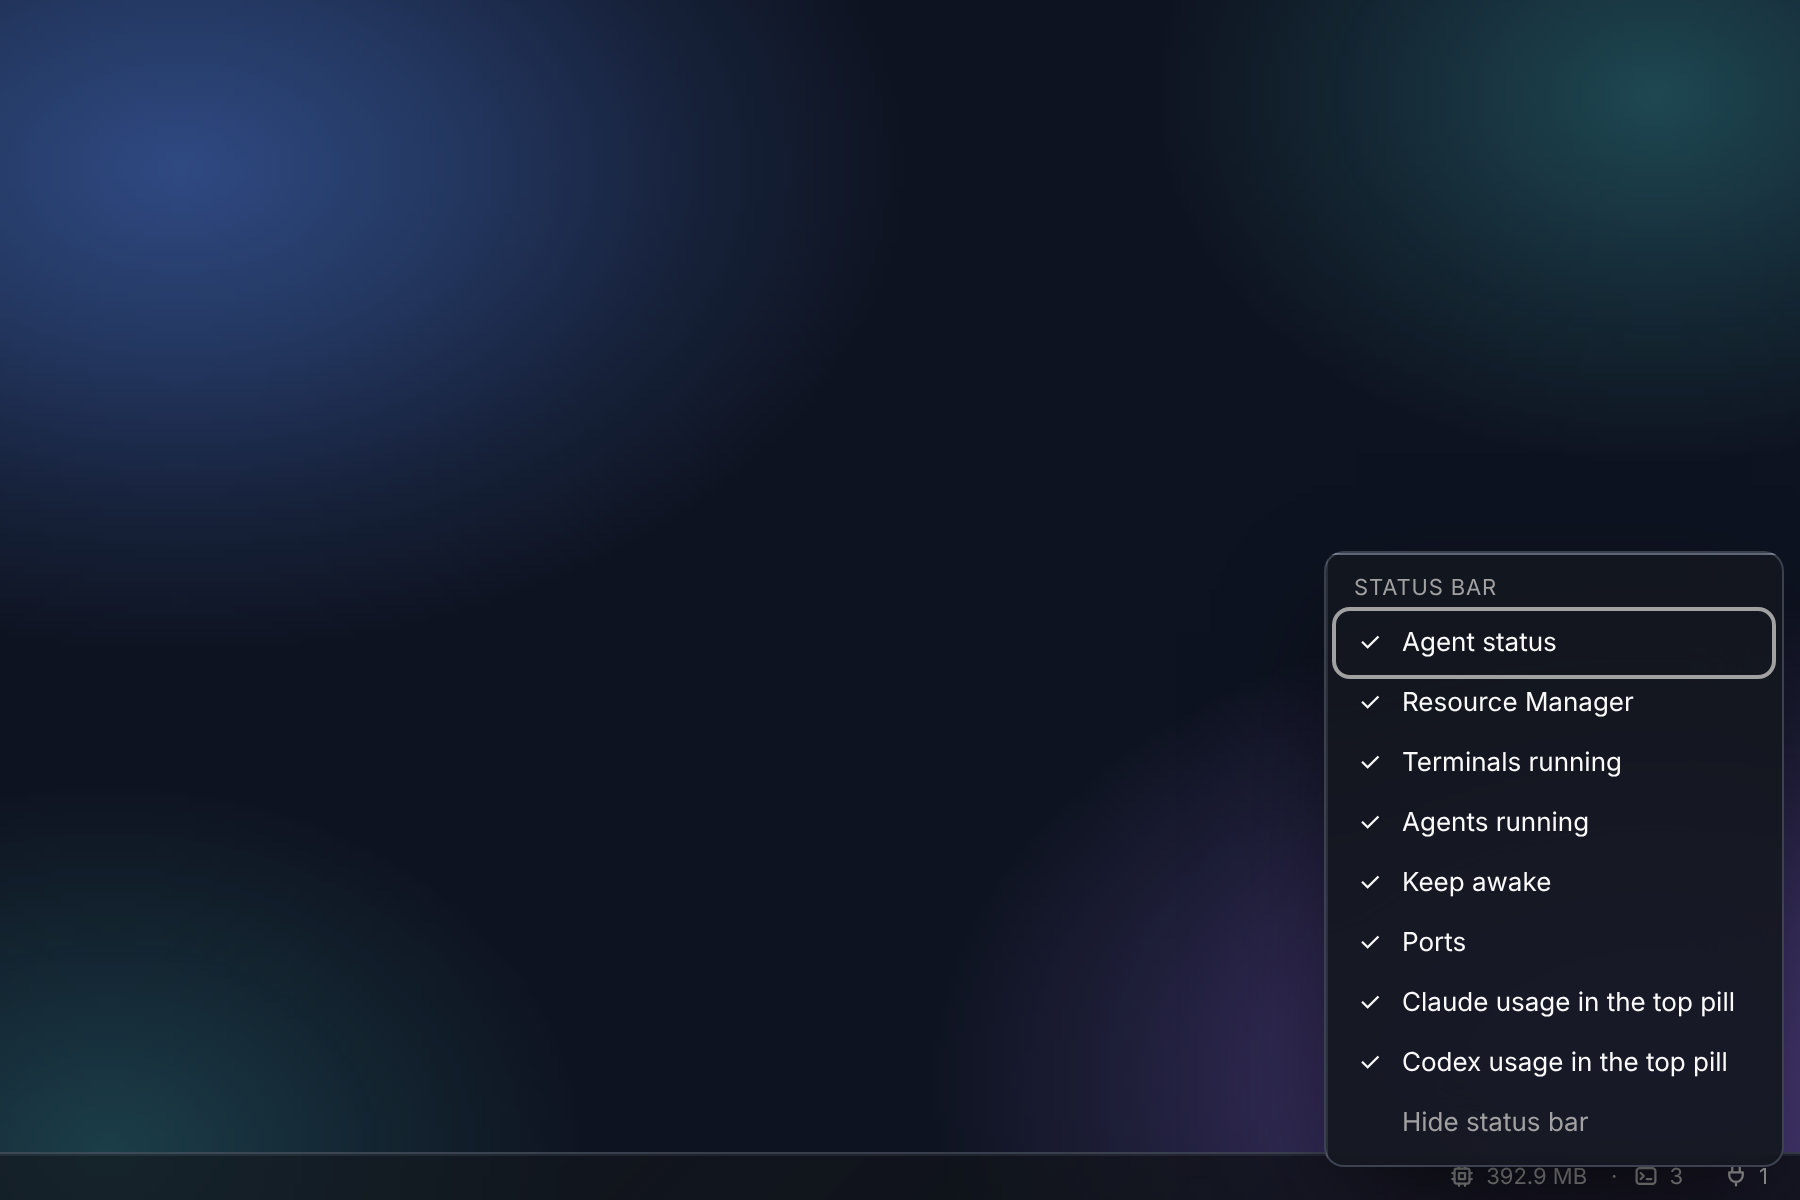
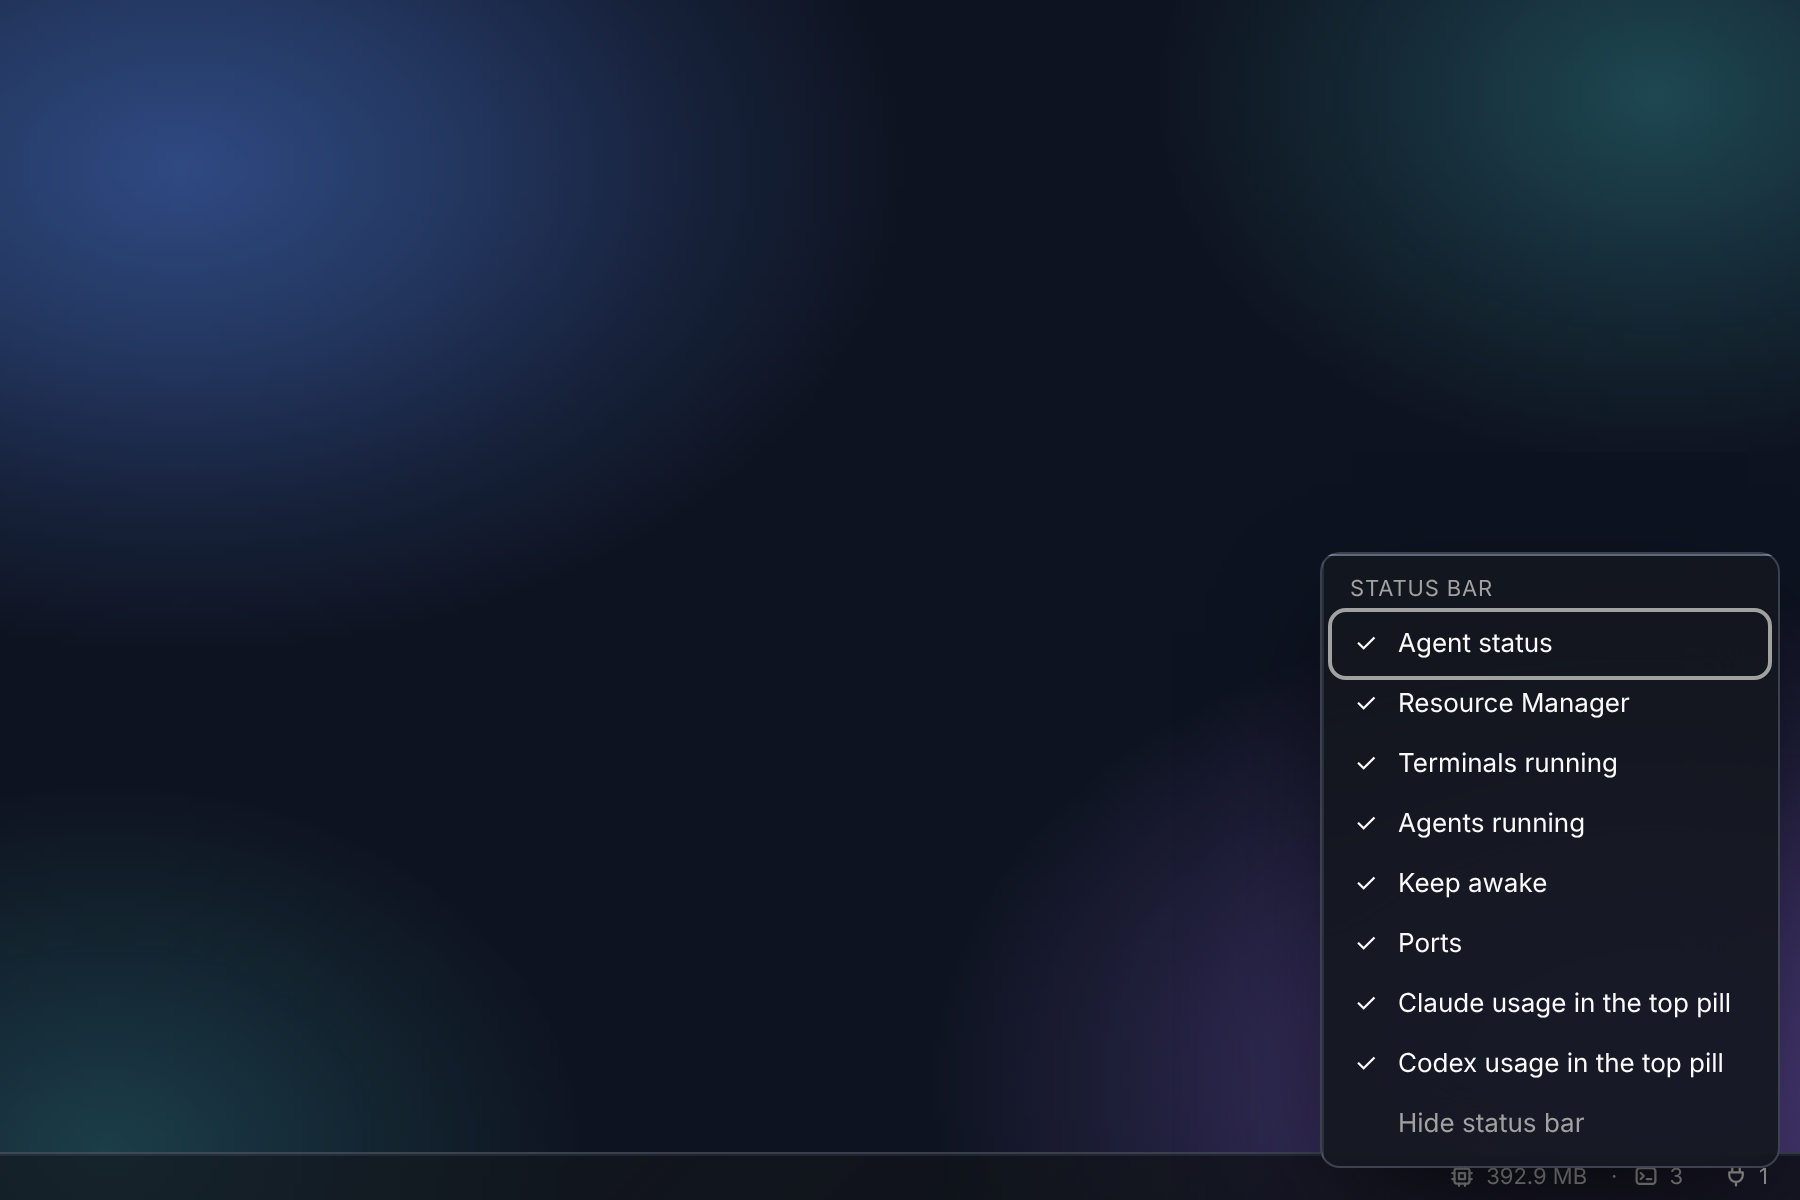
Keep the status bar menu and the Ports list exactly where they were; shots re-taken
The first before and after shots showed the status bar's items menu 3 px and the Ports list 33 px from where they
used to open. src/ui kept each 8 px from the window's edge, where the old code kept 240 px clear for a 229 px menu and
380 px for a 338 px list, and Base UI snaps a placed box to whole device pixels (a 308.3 px menu landed at 275.5 px,
not 275.703 px). The old room is kept on purpose (the look stays as it was; noted for the owner).

- Popover takes `at`, a point it hangs from instead of its anchor (the anchor still toggles it and takes focus back);
  PortsItem passes the old point.
- Menu takes `place`, fixed left and bottom numbers for a menu that opens upward exactly where it always did; the
  status bar passes the old ones (bottom 4 px above the pointer, left never nearer than 240 px to the right edge).
  statusItems.test.ts checks those numbers.

Re-shot with the same harness: dialog 0, tabs 0, menu 0 (was 107,763), popover 0 (was 111,440), select 156 (the
chevron). The menu and popover diff images go: there is no diff. Sites to do: unchanged at 26.

diff --git a/src/ui/base.tsx b/src/ui/base.tsx
@@ -90,6 +90,7 @@ export type MenuBoxProps = {
   label: string;
   anchor?: RefObject<Element | null> | Element | null;
   at?: { x: number; y: number } | null;
+  place?: { left: number; bottom: number } | null;
   side: Side;
   align: Align;
   offset: number;
@@ -102,6 +103,10 @@ export type MenuBoxProps = {
   children: ReactNode;
 };
 
+/** A box at fixed window numbers (`place`), its left and bottom edges where the site puts them: Base UI's own placement
+ *  is snapped to whole device pixels, which moves a box of fractional height by a fraction of a pixel. */
+const placed = ({ left, bottom }: { left: number; bottom: number }): CSSProperties => ({ position: "fixed", transform: "none", willChange: "auto", top: "auto", left, bottom });
+
 /** The row focus starts on: in a list of choices the ticked one (the account in use), else the first row a menu can act
  *  on (a row that is off stays focusable in Base UI, so it is skipped by its aria-disabled). */
 const firstRow = (box: HTMLElement | null) => {
@@ -109,7 +114,7 @@ const firstRow = (box: HTMLElement | null) => {
   return rows.find((r) => r.getAttribute("role") === "menuitemradio" && r.getAttribute("aria-checked") === "true") ?? rows[0] ?? null;
 };
 
-export function MenuBox({ popup, onClose, label, anchor, at, side, align, offset, className, plain, positioner, style, finalFocus, children, ...p }: MenuBoxProps) {
+export function MenuBox({ popup, onClose, label, anchor, at, place, side, align, offset, className, plain, positioner, style, finalFocus, children, ...p }: MenuBoxProps) {
   // Where focus goes back to when the menu closes: what had it when the menu opened (the button, or the list a
   // right-click menu was opened on), as Kolux's menus always did. The menu is taken off the page at once when it closes
   // (its owner stops drawing it), which Base UI's own hand-back does not follow, so it is done here once the menu is gone,
@@ -149,7 +154,7 @@ export function MenuBox({ popup, onClose, label, anchor, at, side, align, offset
   return (
     <Menu.Root open onOpenChange={(next, d) => !next && !(d.reason === "outside-press" && onAnchor(anchor, d.event)) && onClose(why(d.reason))}>
       <Menu.Portal container={layerHost()}>
-        <Menu.Positioner className={positioner ? `ui-positioner ${positioner}` : "ui-positioner"} anchor={at ? pointAnchor(at.x, at.y) : anchor} side={side} align={align} sideOffset={offset} collisionPadding={8} collisionAvoidance={AVOID} positionMethod="fixed">
+        <Menu.Positioner className={positioner ? `ui-positioner ${positioner}` : "ui-positioner"} anchor={at ? pointAnchor(at.x, at.y) : anchor} side={side} align={align} sideOffset={offset} collisionPadding={8} collisionAvoidance={AVOID} positionMethod="fixed" style={place ? placed(place) : undefined}>
           <Menu.Popup ref={popup} className={plain ? className : className ? `menu ${className}` : "menu"} aria-label={label} style={style} finalFocus={finalFocus as never} {...p}>
             {children}
           </Menu.Popup>
@@ -186,7 +191,8 @@ export type PopoverBoxProps = {
   popup: RefObject<HTMLDivElement | null>;
   onClose: (why: CloseWhy) => void;
   label: string;
-  anchor: RefObject<Element | null>;
+  anchor?: RefObject<Element | null>;
+  at?: { x: number; y: number } | null;
   side: Side;
   align: Align;
   offset: number;
@@ -198,12 +204,12 @@ export type PopoverBoxProps = {
   children: ReactNode;
 };
 
-export function PopoverBox({ popup, onClose, label, anchor, side, align, offset, className, style, modal, initialFocus, children, ...p }: PopoverBoxProps) {
+export function PopoverBox({ popup, onClose, label, anchor, at, side, align, offset, className, style, modal, initialFocus, children, ...p }: PopoverBoxProps) {
   return (
     <Popover.Root open modal={modal} onOpenChange={(next, d) => !next && !(d.reason === "outside-press" && onAnchor(anchor, d.event)) && onClose(why(d.reason))}>
       <Popover.Portal container={layerHost()}>
-        <Popover.Positioner className="ui-positioner" anchor={anchor} side={side} align={align} sideOffset={offset} collisionPadding={8} collisionAvoidance={AVOID} positionMethod="fixed">
-          <Popover.Popup ref={popup} className={className ? `menu ${className}` : "menu"} role="dialog" aria-label={label} style={style} initialFocus={initialFocus as never} finalFocus={anchor as RefObject<HTMLElement | null>} {...p}>
+        <Popover.Positioner className="ui-positioner" anchor={at ? pointAnchor(at.x, at.y) : anchor} side={side} align={align} sideOffset={offset} collisionPadding={8} collisionAvoidance={AVOID} positionMethod="fixed">
+          <Popover.Popup ref={popup} className={className ? `menu ${className}` : "menu"} role="dialog" aria-label={label} style={style} initialFocus={initialFocus as never} finalFocus={(anchor as RefObject<HTMLElement | null> | undefined) ?? true} {...p}>
             {children}
           </Popover.Popup>
         </Popover.Positioner>

diff --git a/src/ports/PortsItem.tsx b/src/ports/PortsItem.tsx
@@ -96,12 +96,16 @@ export default function PortsItem({ active, workspaces }: Props) {
     const url = openAddress(r, printed.forPort(r.port, view.rows));
     void openExternal(url).catch((err) => say(String(err), true));
   };
+  const r = open ? button.current?.getBoundingClientRect() : undefined;
+  const at = r ? { x: Math.max(8, Math.min(r.left, window.innerWidth - 380)), y: r.top } : null;
   return (
     <>
       <button ref={button} className="item ports-open" data-item="ports" title="Ports this workspace is listening on" aria-haspopup="dialog" aria-expanded={open} onClick={() => (setNote(null), setNoteBad(false), setOpen((o) => !o))}>
         Ports {ownCount(view.rows)}
       </button>
-      <Popover open={open} onClose={() => setOpen(false)} label="Ports" anchor={button} side="top" align="start" offset={4} className="ports-menu" style={{ minWidth: 340 }} boxRef={menu} initialFocus={menu}>
+      {/* Placed where the Ports box always was: its left edge on the button's, but never nearer than 380 px to the
+          window's right edge (the old box kept that much room for its 340 px list; the look is kept as it was). */}
+      <Popover open={open} onClose={() => setOpen(false)} label="Ports" anchor={button} at={at} side="top" align="start" offset={4} className="ports-menu" style={{ minWidth: 340 }} boxRef={menu} initialFocus={menu}>
         <div className="menu-title">Ports</div>
         {view.error && <div className="note error">{view.error}{view.rows.length > 0 ? " Showing the last list." : ""}</div>}
         <div role="status">{note && <div className={noteBad ? "note error" : "note"}>{note}</div>}</div>

diff --git a/src/chrome/statusItems.test.ts b/src/chrome/statusItems.test.ts
@@ -45,10 +45,11 @@ test("T-710: Shift+F10 / the Menu key on a focused status-bar item opens the ite
   const menu = find(container, (n) => n.getAttribute("role") === "menu")[0];
   expect(menu.getAttribute("aria-label")).toBe("Status bar items");
   expect(menu.classList.contains("status-menu")).toBe(true);
-  // It opens upward from the point, 4 px above it (the popup has no size on this test page, so its corner is the point).
+  // It opens upward where it always did: its bottom edge 4 px above the point, its left edge at the point but never
+  // nearer than 240 px to the window's right edge (this test window is 1024 x 768).
   const at = menu.parentElement.style;
-  await until(() => at.transform !== "", "the menu placed");
-  expect(at.transform).toBe("translate(1000px, 696px)");
+  expect([window.innerWidth, window.innerHeight]).toEqual([1024, 768]);
+  expect([at.left, at.bottom, at.transform]).toEqual(["784px", "72px", "none"]);
   // An item is a ticked checkbox row, and ticking one keeps the menu open for the next.
   const memory = byText(menu, "span", "Resource Manager")[0].closest('[role="menuitemcheckbox"]');
   expect(memory.getAttribute("aria-checked")).toBe("true");

diff --git a/src/chrome/StatusBar.tsx b/src/chrome/StatusBar.tsx
@@ -104,7 +104,9 @@ export default function StatusBar({ terminals, agents = 0, names = () => ({}), w
       {shows("ports") && <PortsItem active={active} workspaces={workspaces} />}
       {shows("awake") && <KeepAwakeItem held={awake} />}
       {/* A ticked item stays open for the next one; Hide status bar closes it. */}
-      <Menu open={menu !== null} onClose={() => setMenu(null)} label="Status bar items" at={menu} side="top" offset={4} className="status-menu">
+      {/* Exactly where the menu always opened: its bottom edge 4 px above the pointer, its left edge at the pointer but
+          never nearer than 240 px to the window's right edge (room the old menu kept for its 229 px box). */}
+      <Menu open={menu !== null} onClose={() => setMenu(null)} label="Status bar items" at={menu} place={menu && { left: Math.min(menu.x, window.innerWidth - 240), bottom: Math.max(8, window.innerHeight - menu.y + 4) }} side="top" offset={4} className="status-menu">
         <MenuTitle>Status bar</MenuTitle>
         {STATUS_ITEMS.map((i) => (
           <MenuCheckboxItem key={i.id} checked={shows(i.id)} onCheckedChange={() => onToggle?.(i.id)}>

diff --git a/src/ui/Popover.tsx b/src/ui/Popover.tsx
@@ -12,8 +12,11 @@ export type PopoverProps = {
   open: boolean;
   onClose: (why: CloseWhy) => void;
   label: string;
-  /** The button that opened it: the popover hangs from it and focus returns to it. */
-  anchor: RefObject<Element | null>;
+  /** The button that opened it: the popover hangs from it and focus returns to it (none: focus returns to what had it). */
+  anchor?: RefObject<Element | null>;
+  /** Or a point on screen it hangs from instead, for a box placed where it always was (the anchor, if any, still
+   *  toggles it and takes focus back). */
+  at?: { x: number; y: number } | null;
   side?: "top" | "bottom" | "left" | "right";
   align?: "start" | "center" | "end";
   offset?: number;

diff --git a/src/ui/Menu.tsx b/src/ui/Menu.tsx
@@ -22,6 +22,9 @@ export type MenuProps = {
   anchor?: RefObject<Element | null> | Element | null;
   /** Or a point on screen: a context menu opens where the mouse was. */
   at?: Point | null;
+  /** Or fixed window numbers for the box's left and bottom edges, for a menu that opens upward exactly where it always
+   *  did (the status bar's): Base UI's placement snaps to device pixels and keeps the box on screen; this does neither. */
+  place?: { left: number; bottom: number } | null;
   side?: Side;
   align?: Align;
   /** Pixels between the anchor and the menu. */

diff --git a/docs/base-ui-migration.md b/docs/base-ui-migration.md
@@ -130,6 +130,11 @@ useEffect(() => (open ? watchEscape(window, close) : undefined), [open]);
 <Popover open={open} onClose={close} label="Ports" anchor={button} side="top" className="ports-menu">...</Popover>
 ```
 
+To keep a box exactly where it was, a site may pass the old numbers: `Popover at={{ x, y }}` hangs it from the point the
+old code computed (the Ports list keeps its 380 px of room at the window's right edge), and `Menu place={{ left, bottom }}`
+puts an upward menu's edges at fixed window numbers (the status bar's items menu). Base UI's own placement keeps 8 px from
+the window's edge and snaps the box to whole device pixels, which moved both a little in the before and after shots.
+
 ### Tabs (migrated: the right sidebar's tab strip)
 
 ```tsx
